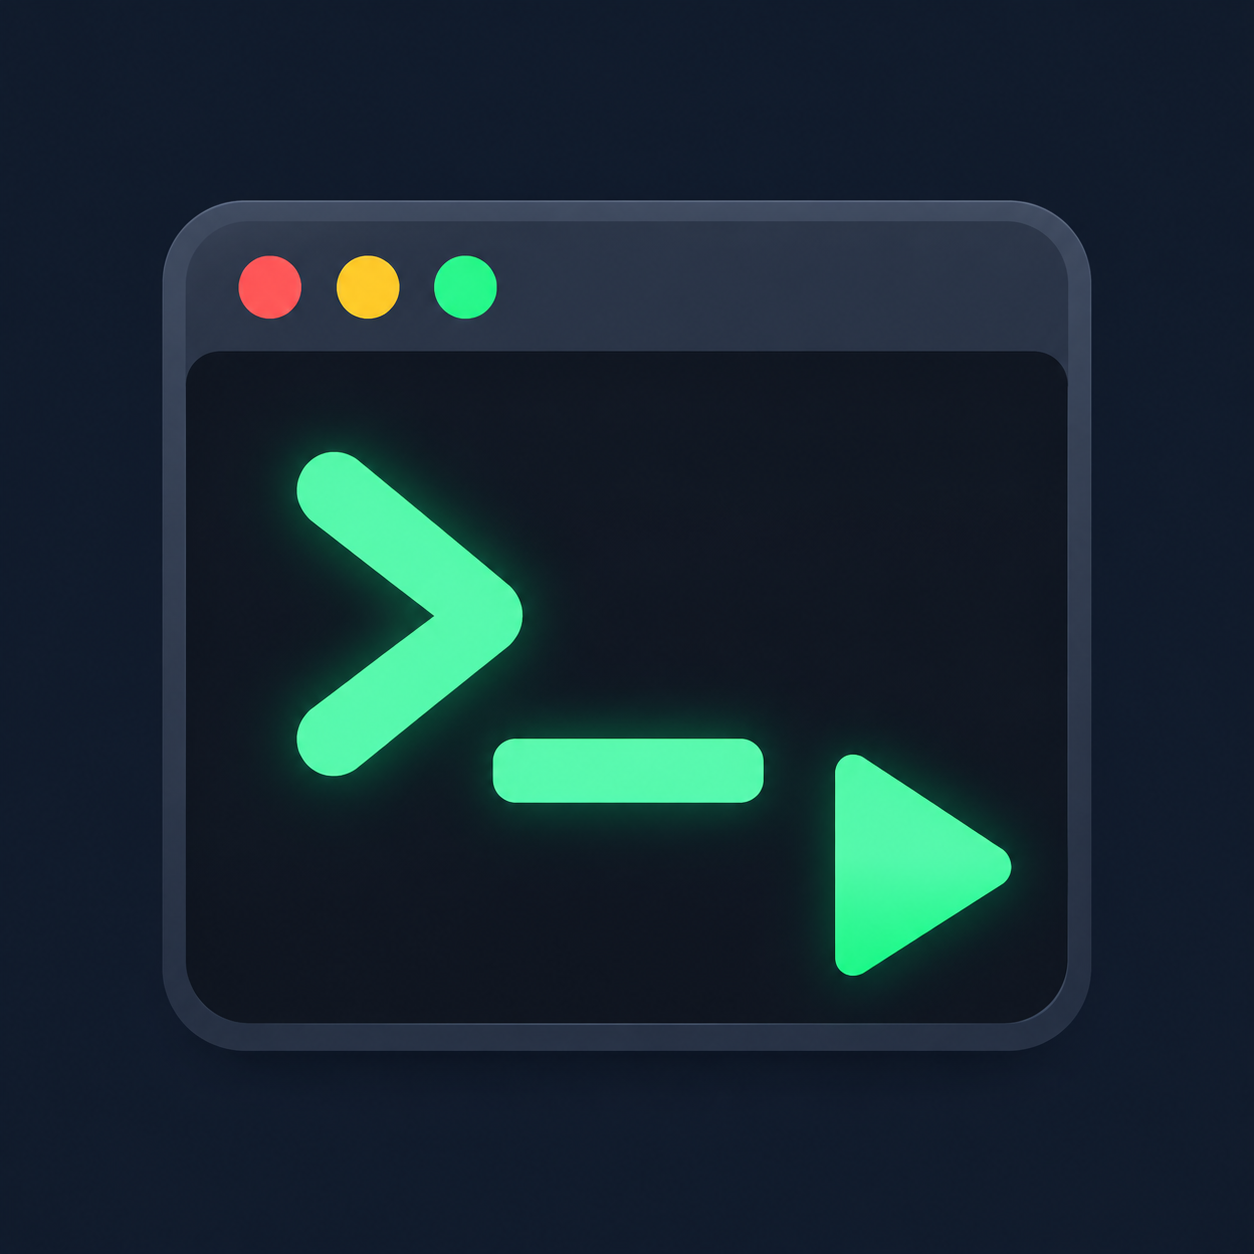
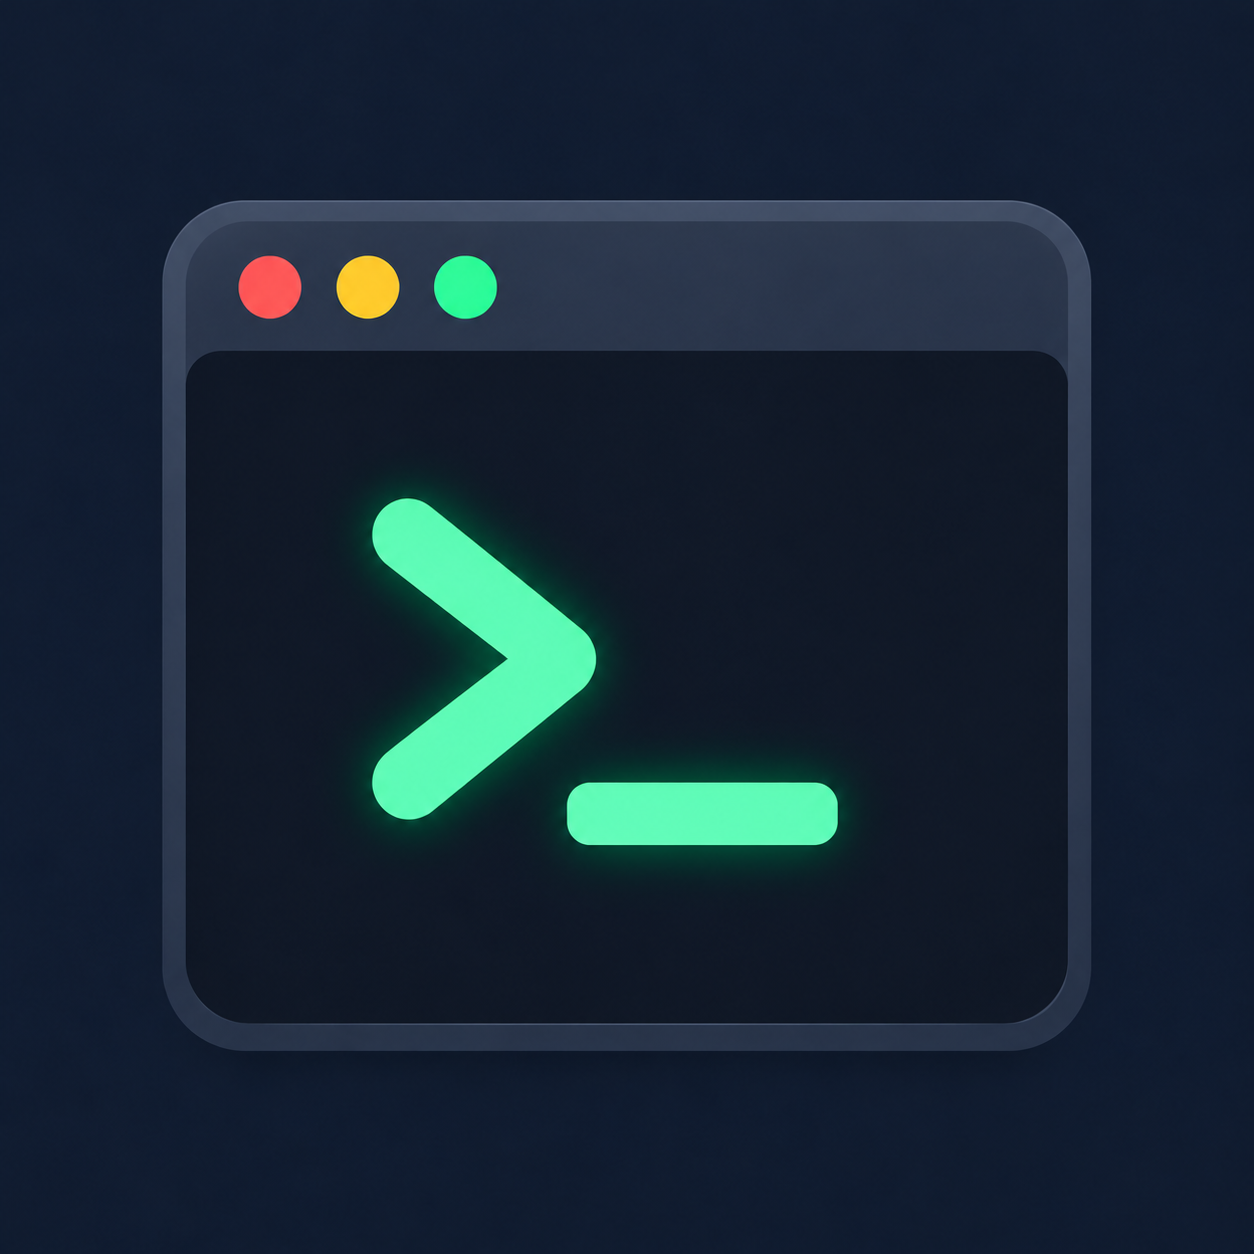
chore: 更新 Shell 执行器图标并升至 1.0.1

Changed region(s): [[0.2177, 0.3421, 0.8086, 0.7775], [0.3421, 0.4043, 0.3732, 0.4354]]

diff --git a/plugins/shell-runner/README.md b/plugins/shell-runner/README.md
@@ -44,6 +44,8 @@ https://github.com/yuyedaidao/LeapPlugins/tree/main/plugins/shell-runner
 
 ## 图标生成记录
 
-`icon.png` 使用内置 imagegen 生成，提示词如下：
+`icon.png` 使用内置 imagegen 生成。1.0.1 在初版基础上移除了右下角的播放三角形，并将 `>` 和 `_` 作为一组移到终端内容区中央。
+
+初版提示词如下：
 
 > Use case: logo-brand. Asset type: square macOS Leap launcher plugin icon, final project asset. Create one polished icon for a Shell script runner. Full square charcoal/navy background extending to the canvas edges, no outside margin or mockup. A bold stylized dark terminal window with a slightly lighter top bar, large luminous mint-green terminal prompt '>_' as the main symbol, and one small simple mint forward execution arrow integrated into the lower-right area. Flat geometric shapes with restrained subtle depth, crisp high contrast, thick strokes and generous spacing, centered composition. It must remain instantly legible at 24 and 32 pixels. No words, letters, labels, slogans, watermark, multiple variations, or extra decorations. Deliver a single square PNG icon.
